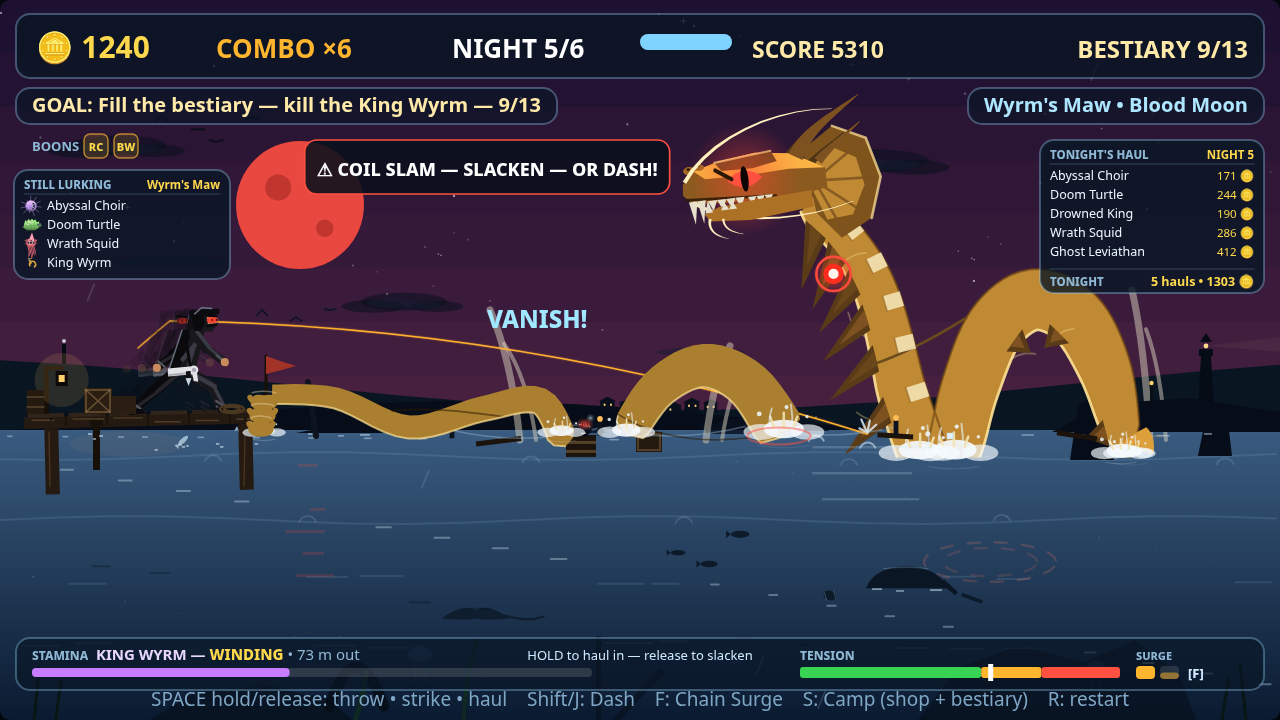
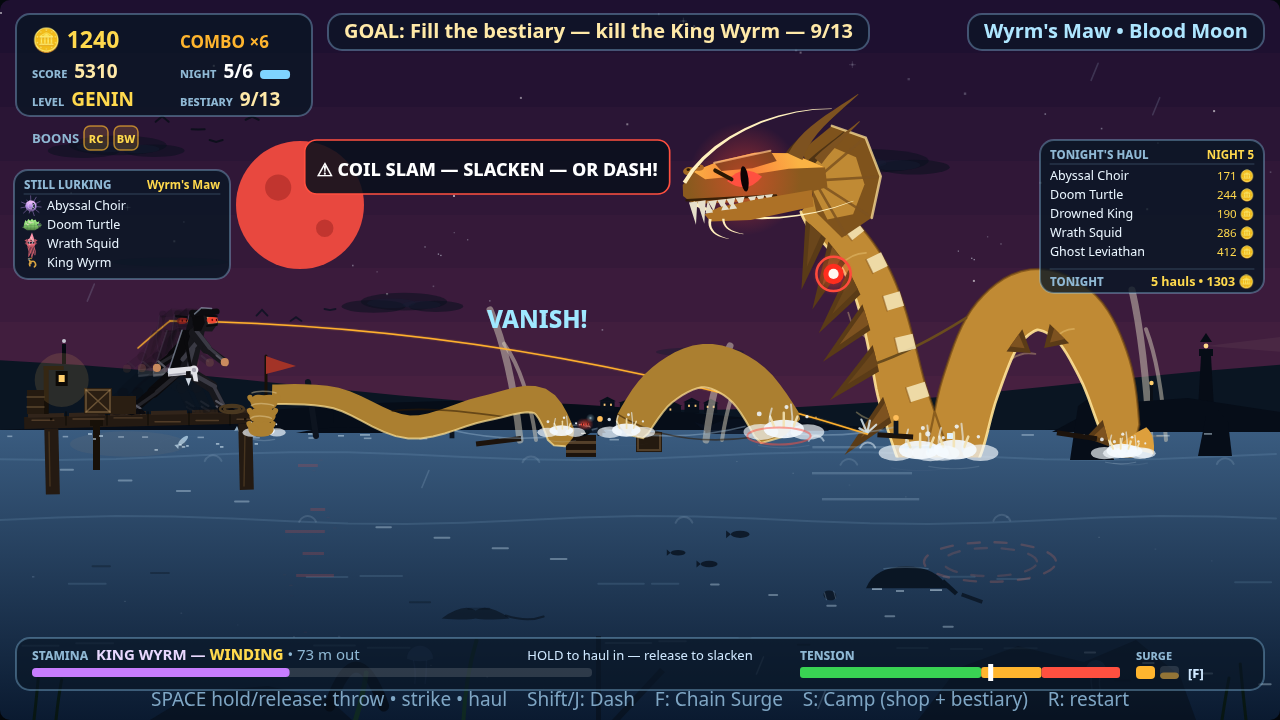
WYRMWAKE: top HUD as one side panel

Changed region(s): [[0.0, 0.0306, 0.6875, 0.2444], [0.75, 0.0306, 1.0, 0.1833]]

diff --git a/game/src/ui.js b/game/src/ui.js
@@ -1,7 +1,7 @@
 // ui.js — one job: the shared drawing kit (type, panels), the HUD, the
 // toast, and the sea-route strip every meta screen reuses. Type is big
 // and bold on purpose: the judge reads these screens shrunk.
-import { MONSTERS, SEAS, WEATHERS, BOONS, SEASON_NIGHTS, NIGHT_SECONDS } from './data.js';
+import { MONSTERS, SEAS, WEATHERS, BOONS, SEASON_NIGHTS, NIGHT_SECONDS, DIFFICULTIES } from './data.js';
 import { journalCount } from './state.js';
 import { staminaWord, snapPoint } from './fight.js';
 import { lurePos, WATER_Y } from './render.js';
@@ -83,35 +83,47 @@ function drawBoonPips(ctx, run, x, y, withLabel = true) {
 }
 
 export function drawHUD(ctx, run, view) {
-  panel(ctx, 16, 14, 1248, 64, 0.78);
-  text(ctx, `🪙 ${run.coins}`, 36, 58, 30, '#ffd94d');
+  // ONE compact panel at the top-left corner holds the run's vitals —
+  // coin, combo, score, night, level, bestiary in a two-column grid.
+  // The rest of the top edge is open sky: goal and location ride as
+  // small chips on the same row, and nothing spans the frame.
+  panel(ctx, 16, 14, 296, 102, 0.78);
+  text(ctx, `🪙 ${run.coins}`, 32, 48, 23, '#ffd94d');
   const comboScale = view.comboPop > 0 ? 1 + 0.45 * view.comboPop : 1;
   ctx.save();
-  ctx.translate(216, 58);
+  ctx.translate(180, 48);
   ctx.scale(comboScale, comboScale);
-  ctx.translate(-216, -58);
-  text(ctx, `COMBO ×${run.combo}`, 216, 58, 26, run.combo >= 3 ? '#ffb52e' : '#cfe8ff');
+  ctx.translate(-180, -48);
+  text(ctx, `COMBO ×${run.combo}`, 180, 48, 17, run.combo >= 3 ? '#ffb52e' : '#cfe8ff');
   ctx.restore();
-  text(ctx, `NIGHT ${run.night}/${SEASON_NIGHTS}`, 452, 58, 26, '#ffffff');
+  // one grid cell: small caps label, then the value beside it; returns
+  // the x where the value's ink ends (the night cell hangs its timer
+  // pill off it)
+  const cell = (x, y, label, value, color) => {
+    text(ctx, label, x, y, 11, '#8fb8d4', 'left', 800);
+    const vx = x + ctx.measureText(label).width + 7;
+    text(ctx, value, vx, y, 19, color);
+    return vx + ctx.measureText(value).width;
+  };
+  cell(32, 78, 'SCORE', `${run.score}`, '#ffe9a8');
+  const nightEnd = cell(180, 78, 'NIGHT', `${run.night}/${SEASON_NIGHTS}`, '#ffffff');
   ctx.fillStyle = 'rgba(255,255,255,0.18)';
-  rr(ctx, 640, 34, 92, 16, 8);
+  rr(ctx, nightEnd + 7, 70, 30, 9, 4);
   ctx.fill();
   ctx.fillStyle = '#7fd4ff';
-  rr(ctx, 640, 34, 92 * Math.max(0, 1 - run.nightT / NIGHT_SECONDS), 16, 8);
+  rr(ctx, nightEnd + 7, 70, 30 * Math.max(0, 1 - run.nightT / NIGHT_SECONDS), 9, 4);
   ctx.fill();
-  text(ctx, `SCORE ${run.score}`, 752, 58, 23, '#ffe9a8');
-  text(ctx, `BESTIARY ${journalCount(run)}/13`, 1248, 58, 24, '#ffe9a8', 'right');
-  // goal + location as compact chips sized to their text — the
-  // row between them stays open sky; nothing spans the frame
+  cell(32, 106, 'LEVEL', DIFFICULTIES[run.difficulty].name, '#ffd94d');
+  cell(180, 106, 'BESTIARY', `${journalCount(run)}/13`, '#ffe9a8');
   const goalStr = `GOAL: Fill the bestiary — kill the King Wyrm — ${journalCount(run)}/13`;
   ctx.font = F(20);
-  panel(ctx, 16, 88, ctx.measureText(goalStr).width + 32, 36, 0.66);
-  text(ctx, goalStr, 32, 112, 20, '#ffe9a8');
+  panel(ctx, 328, 14, ctx.measureText(goalStr).width + 32, 36, 0.66);
+  text(ctx, goalStr, 344, 38, 20, '#ffe9a8');
   const locStr = `${SEAS[run.sea].name} • ${WEATHERS[run.weatherIdx].name}`;
   const locW = ctx.measureText(locStr).width + 32;
-  panel(ctx, 1264 - locW, 88, locW, 36, 0.66);
-  text(ctx, locStr, 1248, 112, 20, '#aee6ff', 'right');
-  drawBoonPips(ctx, run, 32, 134);
+  panel(ctx, 1264 - locW, 14, locW, 36, 0.66);
+  text(ctx, locStr, 1248, 38, 20, '#aee6ff', 'right');
+  drawBoonPips(ctx, run, 32, 126);
 
   if (run.phase === 'charge') {
     text(ctx, 'RELEASE TO THROW!', 640, 586, 32, '#ffffff', 'center');
